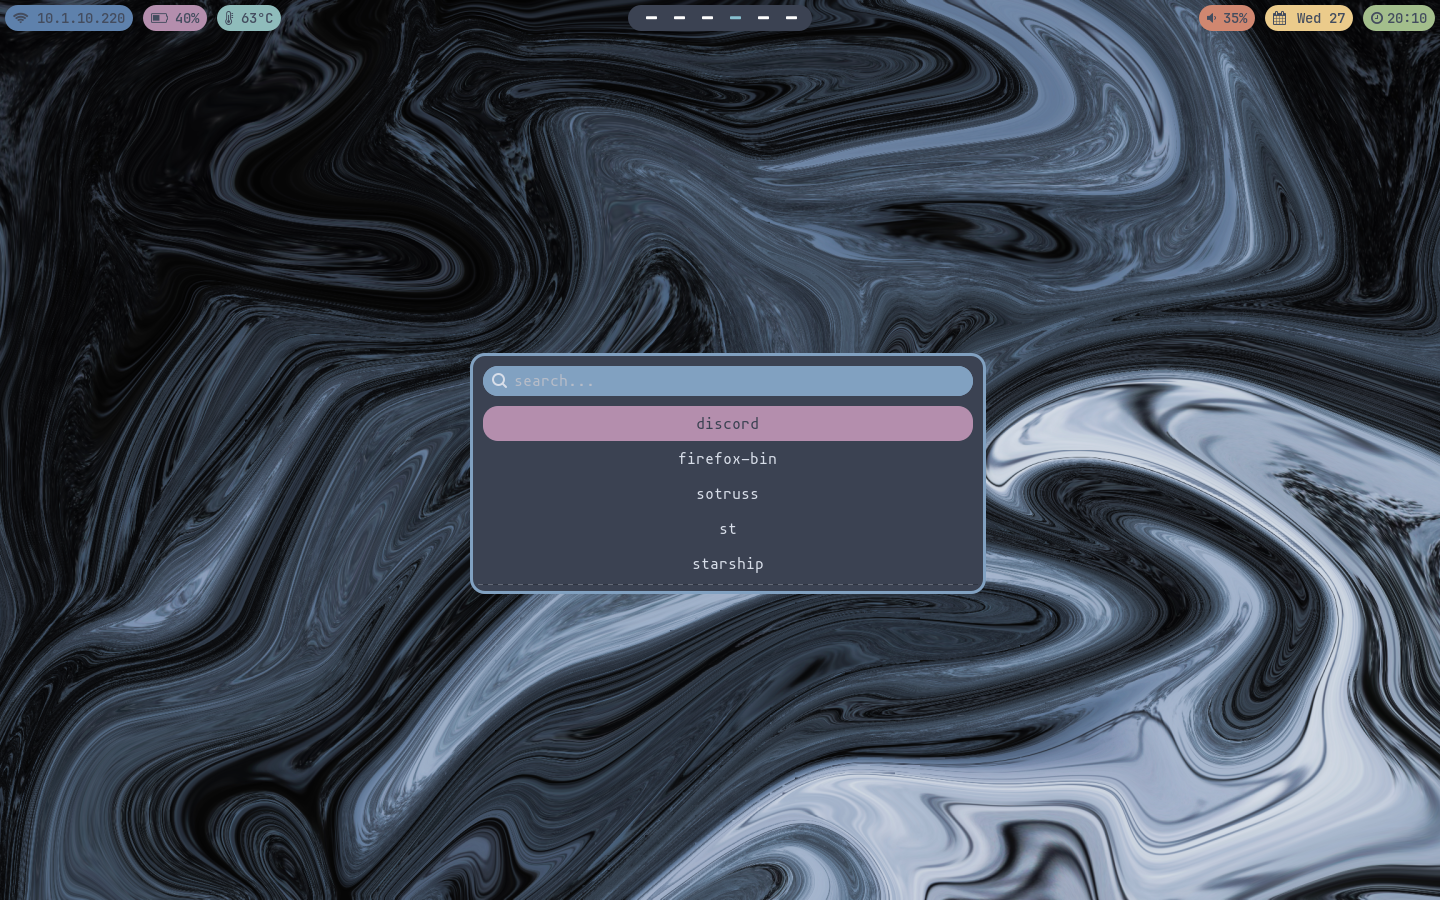
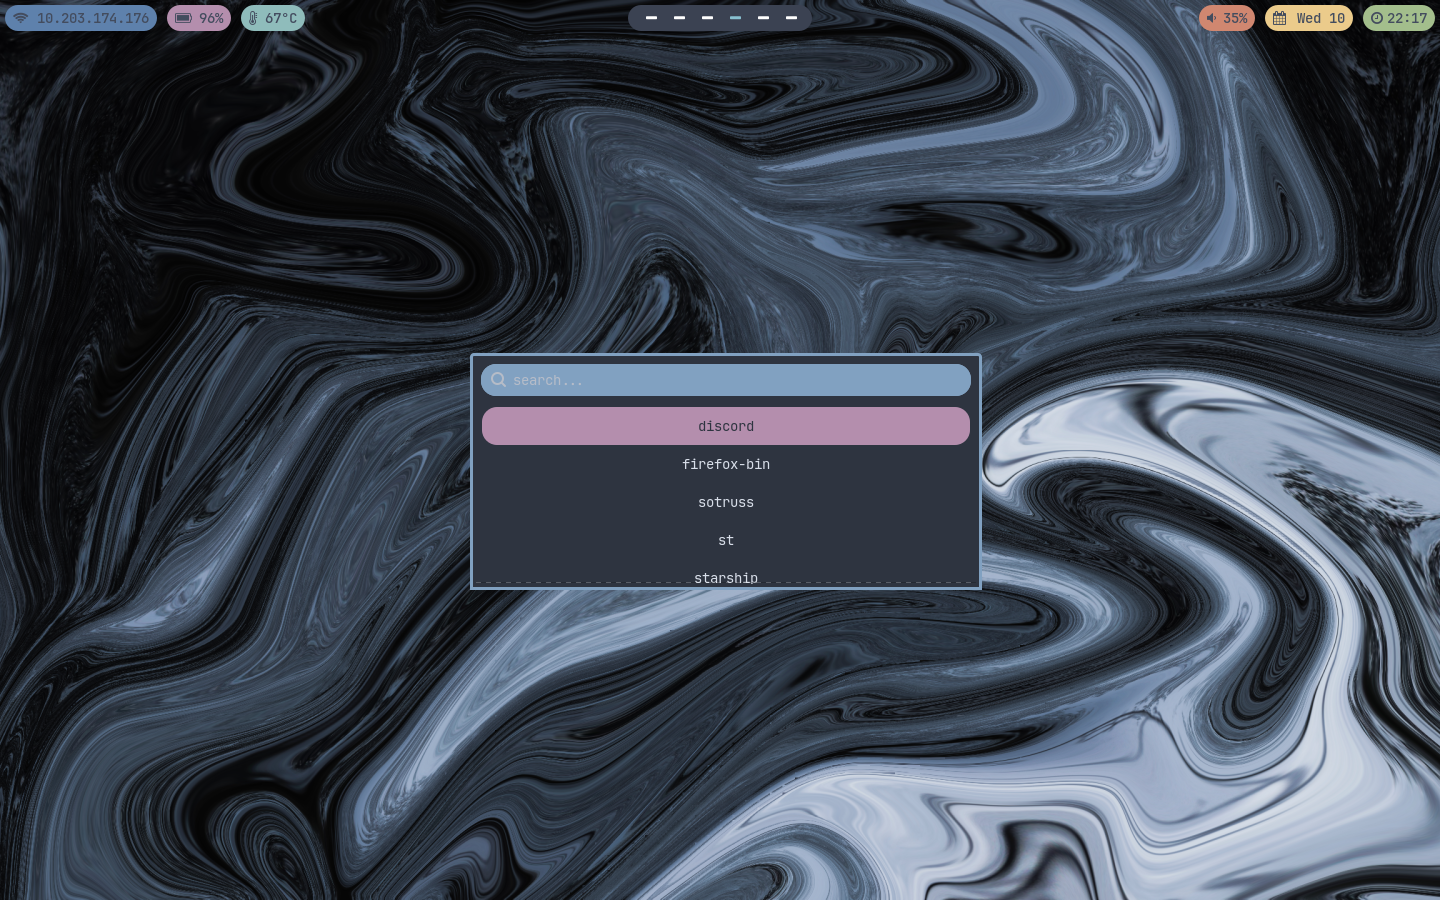
wofi touch up

Changed region(s): [[0.3438, 0.4044, 0.6875, 0.6844], [0.0625, 0.0, 0.2188, 0.0311], [0.3438, 0.4044, 0.4062, 0.4356]]

diff --git a/.config/wofi/style.css b/.config/wofi/style.css
@@ -1,55 +1,29 @@
 window {
-  margin: 0px;
-  border: 3px solid #81a1c1;
-  border-radius: 15px;
-  background-color: #3b4252;
-  font-family: mononoki Nerd Font;
-  font-size: 16px;
+  border: 3px solid #81A1C1;
+  background-color: #2E3440;
+  color: #D8DEE9;
+  font-family: "JetBrainsMono Nerd Font";
+  font-size: 14px;
 }
 
 #input {
   margin: 5px;
-  border: 1px solid #81a1c1;
+  border: 2px solid #81A1C1;
+  background-color: #81A1C1;
   border-radius: 15px;
-  color: #d8dee9;
-  background-color: #81a1c1;
 }
-
-#input image {
-	color: #d8dee9;
-}
-
-#inner-box {
-  margin: 5px;
-  border: none;
-  background-color: #3b4252;
-}
-
-#outer-box {
-  margin: 8px;
-  border: none;
-  border-radius: 15px;
-  background-color: #3b4252;
-}
-
-#scroll {
-  margin: 0px;
-  border: none;
-}
-
-#text {
-  margin: 5px;
-  border: none;
-  color: #d8dee9;
-} 
 
 #entry:selected {
-	background-color: #b48ead;
+	background-color: #B48EAD;
 	border-radius: 15px;
 }
 
 #text:selected {
-	background-color: #b48ead;
-	color: #3b4252;
+	background-color: #B48EAD;
+	color: #2E3440;
 	font-weight: normal;
 }
+
+#outer-box,
+#inner-box,
+#text { margin: 6px; }

diff --git a/.config/chrome/userChrome.css b/.config/chrome/userChrome.css
@@ -1,7 +1,7 @@
 @import url("../colours.css");
 
 :root {
-  --bg: @base01;
+  --bg: @base00;
   --icon-color: @base05;
   --nav-toolbar-padding: 8px;
   --sidebar-bg: var(--bg);
